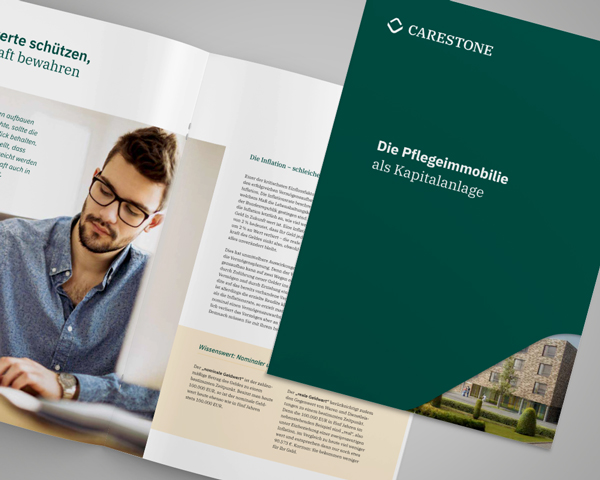
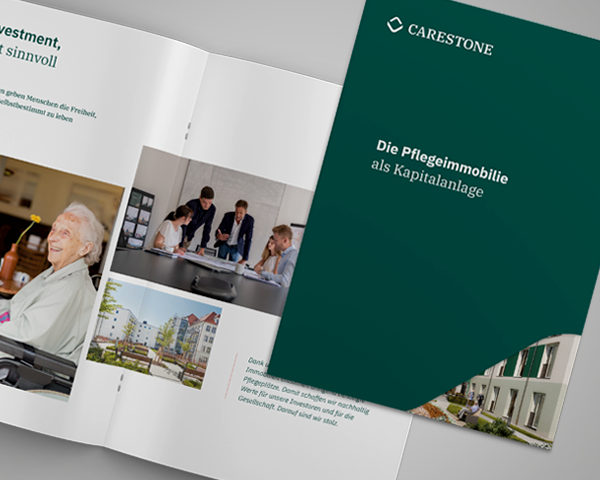
CS-128 Added/replaced thumbnails and added video and brochure

diff --git a/force-app/main/default/lwc/downloads/downloads.html b/force-app/main/default/lwc/downloads/downloads.html
@@ -1,54 +1,18 @@
 <template>
     <div class="slds-var-m-top_medium">
         <lightning-layout multiple-rows="true">
-            <template if:true={imageUrl}>
-                <img src={imageUrl}/>
-            </template> 
-            <c-download-element 
-                    download-url={imageUrl} 
-                    preview-url={imageUrl}
-                    thumbnail-url={imageUrl}
-                    file-type="PDF" 
-                    file-name="Beratungsbroschüre"></c-download-element>
-            <template for:each={contentVersions} for:item="element">
-                <c-download-element
-                        key={element.id}
-                        download-url={element.fullFileUrl}
-                        preview-url={element.fullFileUrl}
-                        thumbnail-url={element.fullFileUrl}
-                        file-type="PDF"
-                        file-name={element.Title}>
-                </c-download-element>
-            </template>
-<!--            <template if:true={error}>-->
-<!--                <c-error-panel errors={error}></c-error-panel>-->
-<!--            </template>-->
-
-            aaaaaaaaaaaaaaaaaaaaaa
-
-            <template for:each={contentVersions} for:item="element">
-                <c-download-element
-                        key={element.id}
-                        download-url={element.downloadUrl}
-                        preview-url={element.previewUrl}
-                        thumbnail-url={element.fullFileUrl}
-                        file-type="PDF"
-                        file-name={element.Title}>
-                </c-download-element>
-            </template>
-
             <lightning-layout-item size="12" small-device-size="6" medium-device-size="4" large-device-size="2" padding="around-small">
                 <c-download-element 
-                    download-url="https://www.dropbox.com/s/cctwg0ch4avyf3z/CS_Unternehmensbroschuere.pdf?dl=1" 
-                    preview-url="https://www.dropbox.com/s/cctwg0ch4avyf3z/CS_Unternehmensbroschuere.pdf?dl=0" 
+                    download-url="https://www.dropbox.com/s/5okhbhm6fkago4t/CS_Unternehmensbroschuere.pdf?dl=1" 
+                    preview-url="https://www.dropbox.com/s/5okhbhm6fkago4t/CS_Unternehmensbroschuere.pdf?dl=0" 
                     thumbnail-url="/img/medienbereich/broschueren/Thumbnail_Imagebroschuere.jpg"
                     file-type="PDF" 
                     file-name="Unternehmensbroschüre"></c-download-element>
             </lightning-layout-item>
             <lightning-layout-item size="12" small-device-size="6" medium-device-size="4" large-device-size="2" padding="around-small">
                 <c-download-element 
-                    download-url="https://www.dropbox.com/s/94d3nl228tpmeqi/CS_Beratungsbroschuere.pdf?dl=1" 
-                    preview-url="https://www.dropbox.com/s/94d3nl228tpmeqi/CS_Beratungsbroschuere.pdf?dl=0" 
+                    download-url="https://www.dropbox.com/s/tl9uai8ruzgho8n/CS_Beratungsbroschuere.pdf?dl=1" 
+                    preview-url="https://www.dropbox.com/s/tl9uai8ruzgho8n/CS_Beratungsbroschuere.pdf?dl=0" 
                     thumbnail-url="/img/medienbereich/broschueren/Thumbnail_Beratungsbroschuere.jpg"
                     file-type="PDF" 
                     file-name="Beratungsbroschüre"></c-download-element>

diff --git a/force-app/main/default/lwc/downloads/downloads.js b/force-app/main/default/lwc/downloads/downloads.js
@@ -1,35 +1,3 @@
-import { LightningElement, track } from 'lwc';
-import apexClastTest from '@salesforce/apex/DownloadElementHelper.getContentVersionsByFolderNameReturningList'
+import { LightningElement } from 'lwc';
 
-export default class Downloads extends LightningElement {
-
-
-        @track contentVersions;
-        @track error;
-        @track imageUrl;
-        
-                
-        
-//        handleLoad() {
-//                apexClastTest({folderNa4me: 'Medienbereich_Beratungsbroschüre'})
-//                    .then(result => {
-//                        console.log(JSON.stringify((result)))
-//                        this.contentVersions = result;
-//                    })
-//                    .catch(error => {
-//                        this.error = error;
-//                    });
-//        }
-
-        renderedCallback(){
-                this.imageUrl = 'https://wirtschaftshaus--artur.sandbox.file.force.com/sfc/servlet.shepherd/version/renditionDownload?rendition=ORIGINAL_Jpg&versionId=0683G000000Dj05&operationContext=CHATTER&contentId=05T3G000000GC9B'
-                apexClastTest({folderName: 'test123'}).then(result => {
-                        console.table(JSON.stringify(result));
-                        console.log(window.location.origin);
-                        this.contentVersions = result;
-                })
-                .catch(error => {
-                        console.log(error)
-                });
-        }
-}
+export default class Downloads extends LightningElement {}

diff --git a/force-app/main/default/lwc/videos/videos.html b/force-app/main/default/lwc/videos/videos.html
@@ -89,6 +89,15 @@
             </lightning-layout-item>
             <lightning-layout-item size="12" small-device-size="6" medium-device-size="4" large-device-size="2" padding="around-small">
                 <c-download-element 
+                    preview-url="https://vimeo.com/carestone/seniorenzentrum-kalbach" 
+                    thumbnail-url="/Thumbnail_Video_Kalbach.jpg"
+                    file-type="Bild" 
+                    file-name="Kalbach"
+                    is-objektfilm="true">
+                </c-download-element>
+            </lightning-layout-item>
+            <lightning-layout-item size="12" small-device-size="6" medium-device-size="4" large-device-size="2" padding="around-small">
+                <c-download-element 
                     preview-url="https://www.youtube.com/watch?v=9oZ14hKXsuc" 
                     thumbnail-url="/Thumbnail_Video_Mommenheim.jpg"
                     file-type="Bild" 
